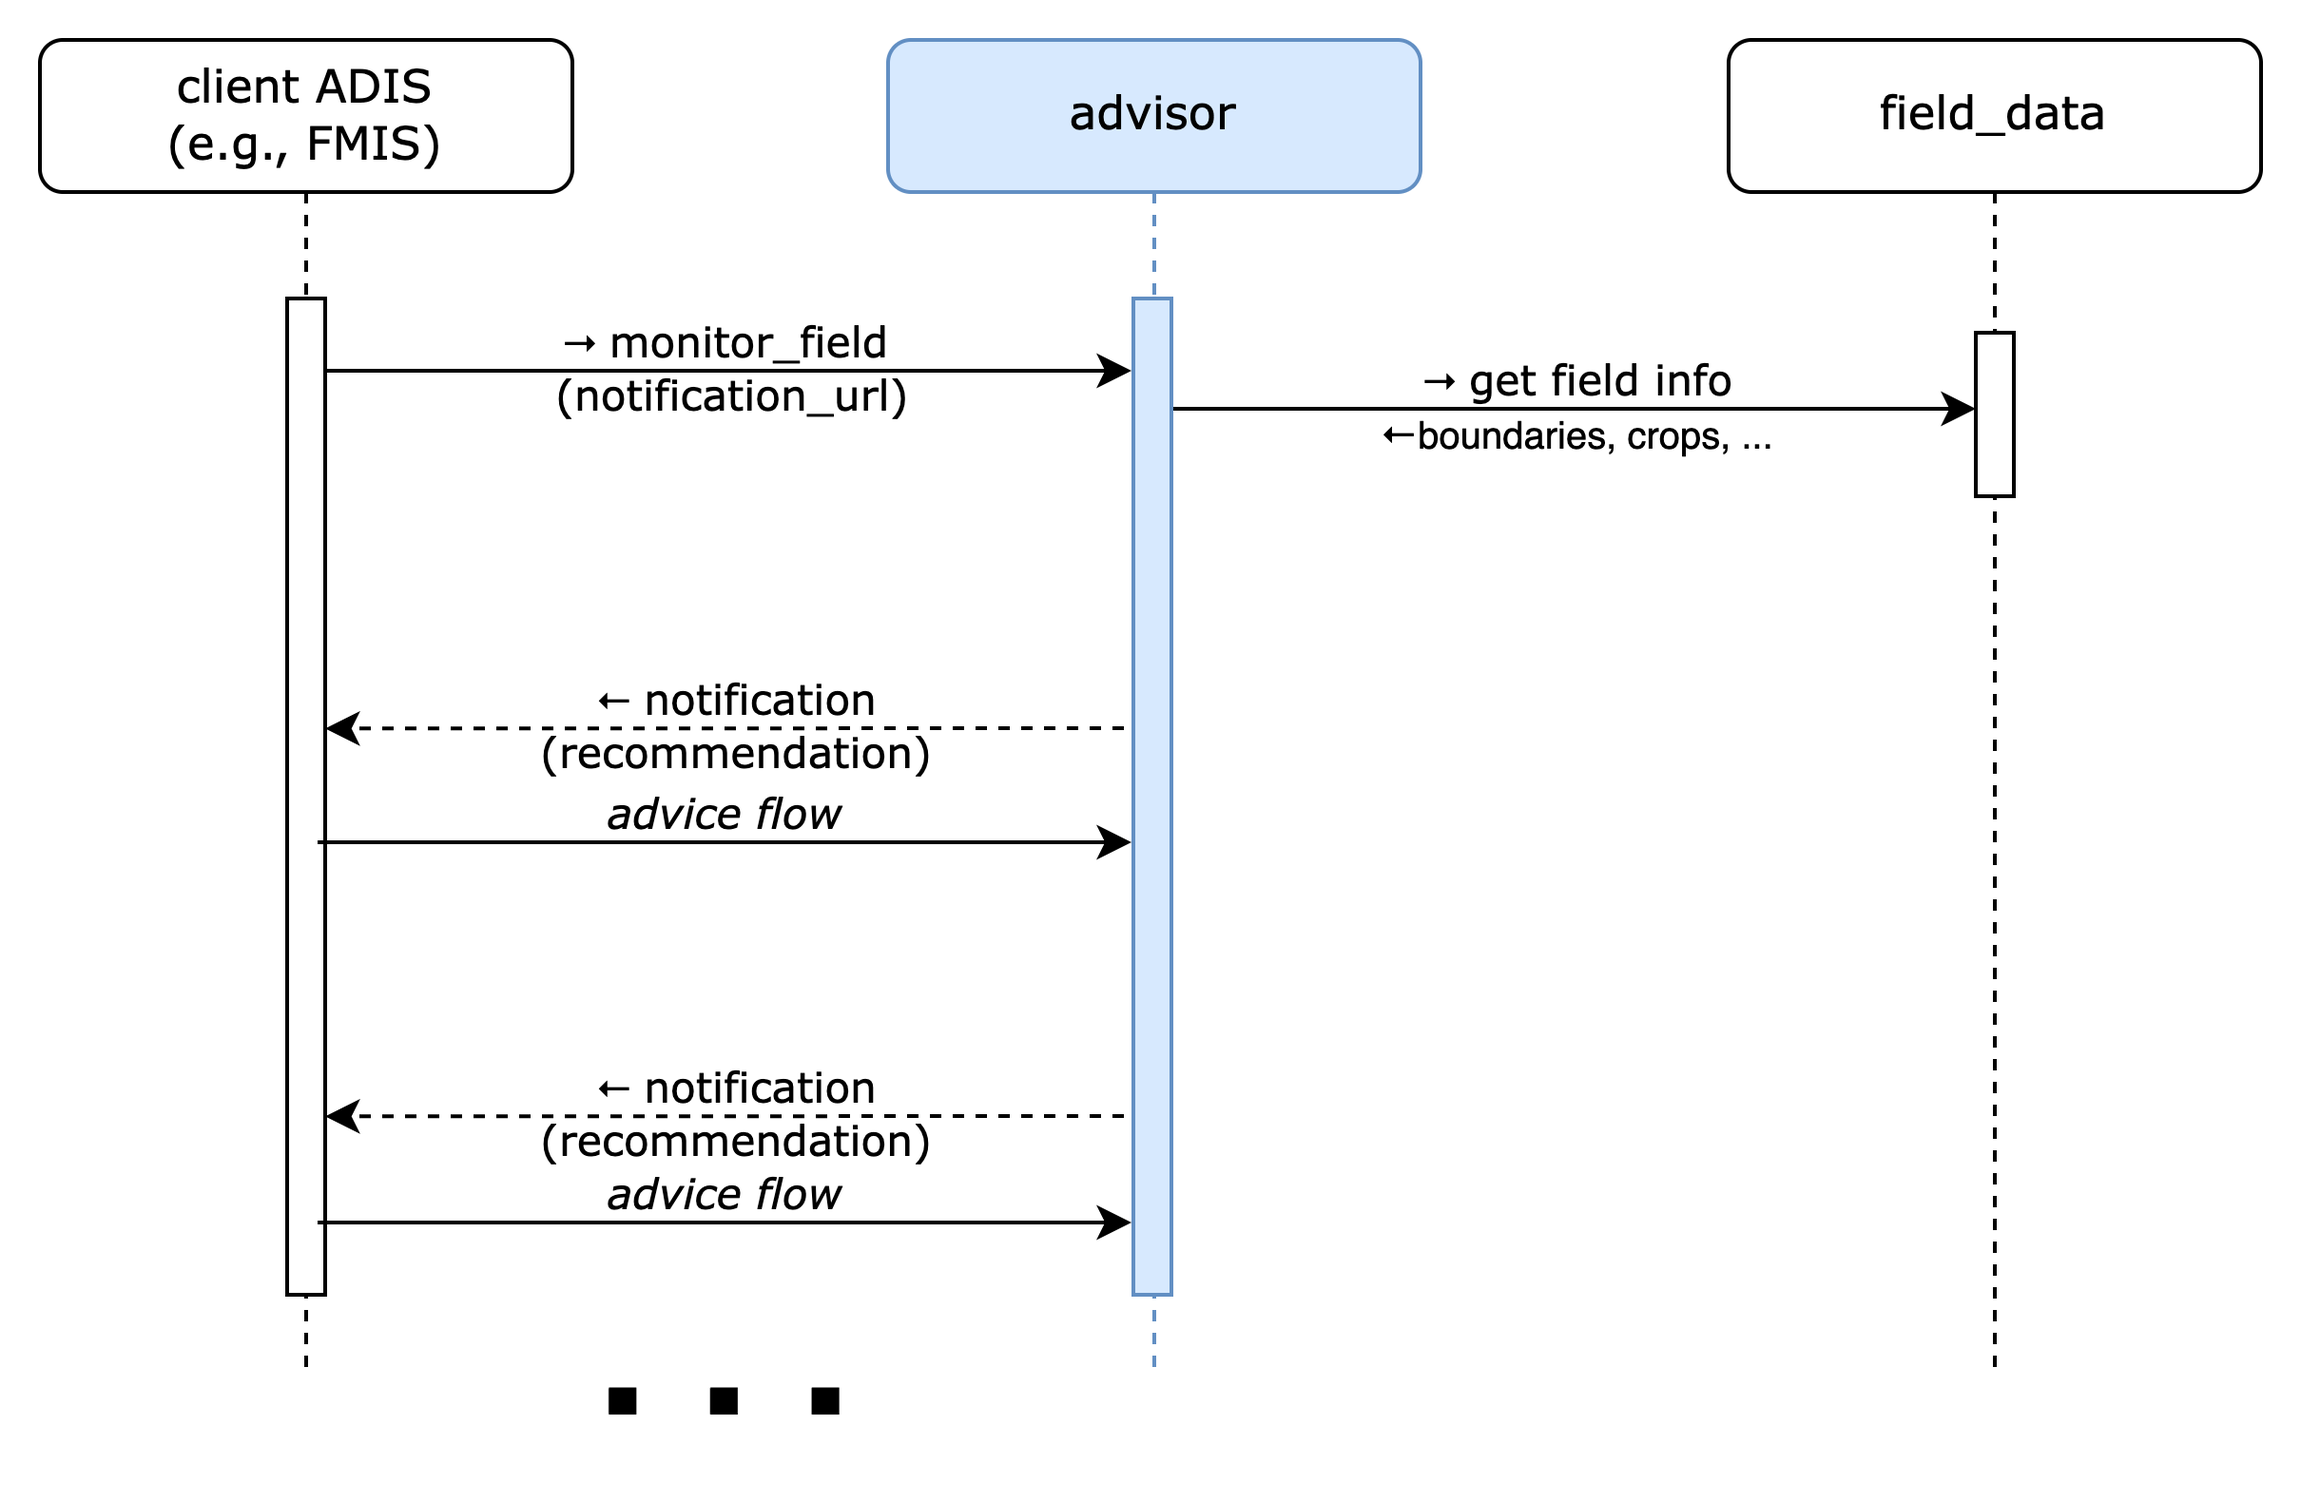
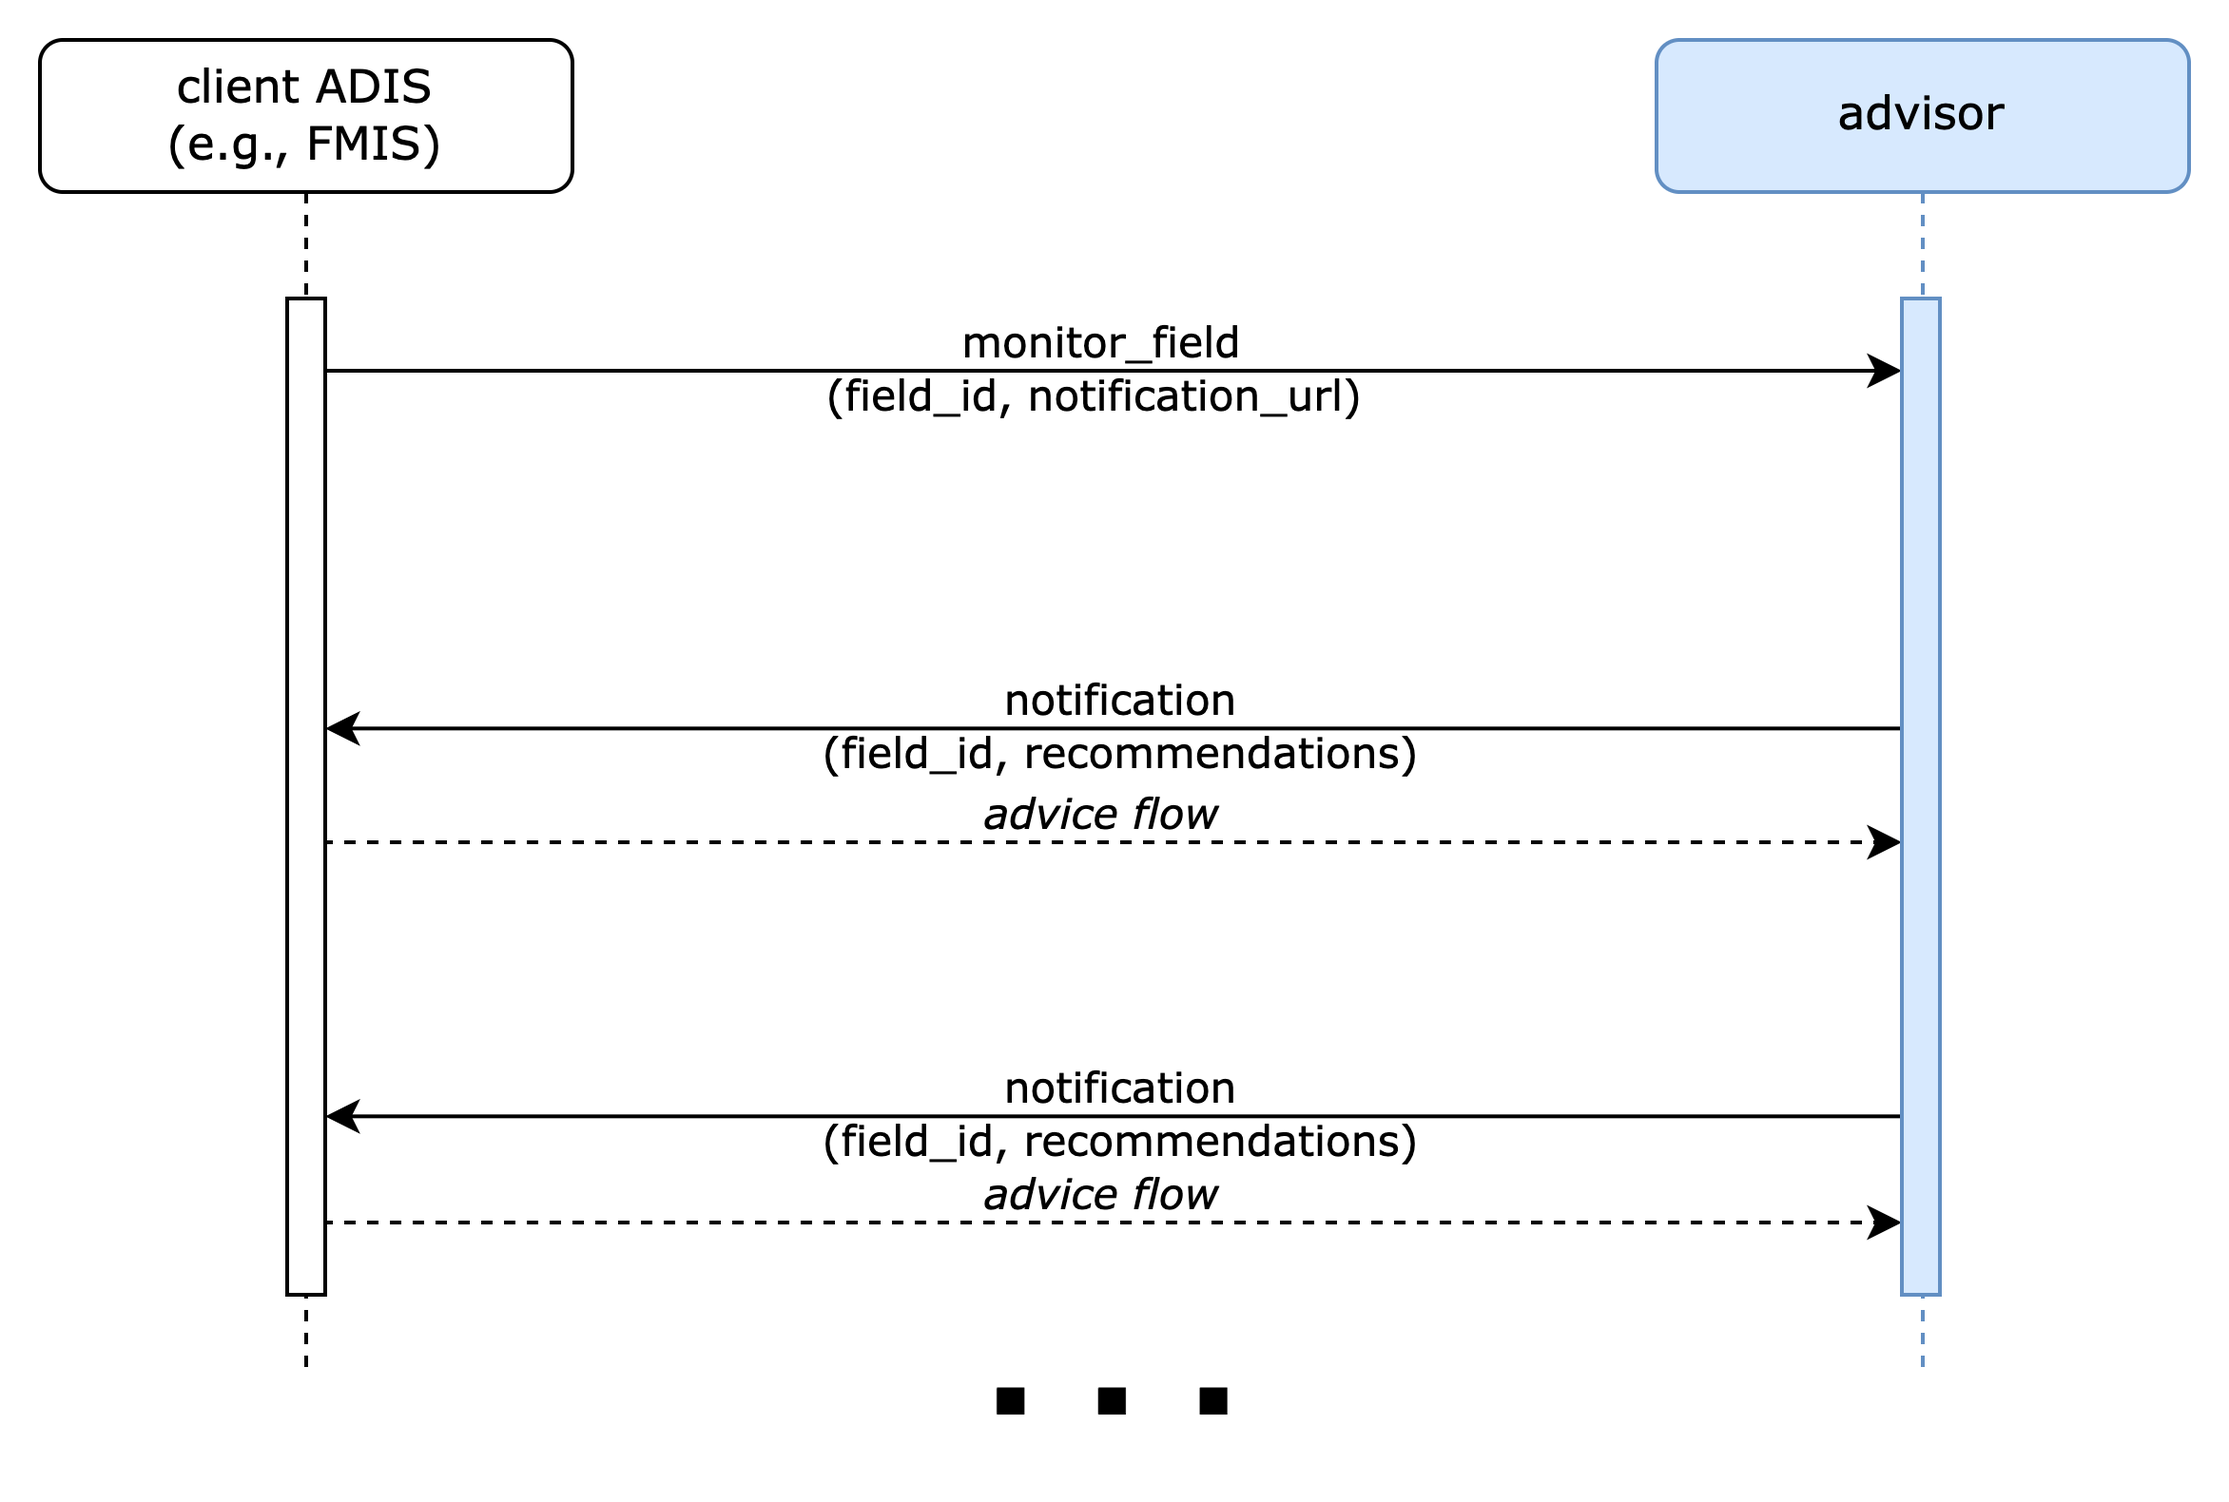
Advisor pattern

diff --git a/doc.html b/doc.html
@@ -44,13 +44,33 @@ both service consumers or service provider implementors:
     - GeoJSON specifications (<a href="https://geojson.org/">https://geojson.org/</a>)
     - GeoPackage specifications (<a href="https://www.geopackage.org/">https://www.geopackage.org/</a>)
 </pre>
-<h2>4 sowing_advisor Usage Scenarios</h2>
+<h2>4 The Advisor Lifecycle</h2>
 
-The following sections describe some aspects of the use of sowing_advisor. The examples were chosen to illustrate the basic operation of applications using sowing_advisor, not to limit what sowing_advisor may be used for.
+sowing_advisor is an "advisor-type" service template. All such services follow a common pattern that typically (but not always) involves the ATLAS Equipment Centre, and an ATLAS-enabled Digital Information System such as an FMIS, as seen below:
 
 <img src="doc/advisor_pattern.png" style="width: 420px" />
 
-<h2>5 Service Template API Overview</h2>
+The high level flow is: prepare an advice for a farming operation => submit a task with the advice and the equipment that it should be carried with => retrieve the application map from the advice just before sending it to the equipment => carry out the task with the equipment on the field => retrieve the "as applied" information from the equipment and record it on the field_data service
+
+The ADIS will usually have a mirror copy of the fields, preloaded from a field_data service.
+
+If the monitoring functionality is supported by an advisor, in a setup phase, the ADIS may activate the monitoring of a field, providing a notification url. In the operation phase, the ADIS may either poll for recommendations or receive notifications with recommendations from the advisor (see Dynamic Behaviour). The advisor service must be paired with the requested field's field_data service in order to retrieve the field's boundaries and any other information that may be relevant (crop, previous applications, ...)
+
+The ADIS may use recommendations (recommendations are specific to the type of advisor) as the basis of an advice preparation or it may manually decide to prepare an advice based on its own criteria (2).
+
+Depending on service implementations, advice preparations could take milliseconds to hours (in some cases, weeks) to complete. The ADIS will have to either poll the advisor or register a notification_url in the preparation request to determine when an advice is completed and a task may be created (see Dynamic Behaviour).
+
+As an advice is ready, the ADIS will usually let the user select an equipment out of the ones he owns (3) and then submits a task to the ATLAS Equipment Centre, with the advice and the selected equipment as parameters (4). The task is recorded by the ATLAS Equipment Centre but may take an unknown amount of time before it is actually carried out.
+
+When the ATLAS Equipment Centre determines that a task is ready to be executed (available worker and equipment), it retrieves the application map (5), just before starting the task, giving the advisor the opportunity to update potentially pre-computed maps taking latest information (weather, new applications, ...) into account. That information is sent to the tractor (6), and eventually, "as applied" information is sent back (7) to the ATLAS Equipment Centre which then records the application on the appropriate field_data service (8). Note that results may be partial, resulting in multiple applications for a single task.
+
+When the task is finished, it is marked as completed, and a notification is sent back to the ADIS (9), but only if it provided a notification URL. Note that when a notification URL is provided with the task, notifications will also be changed for any status change.
+
+<h2>5 sowing_advisor Usage Scenarios</h2>
+
+A common use case for sowing is to monitor a field to determine the optimum timing for sowing based, for instance, on the crop, current and forecasted meteorological conditions.
+
+<h2>6 Service Template API Overview</h2>
 
 This section provides a very high-level summary of the sowing_advisor API:
 <pre>
@@ -81,11 +101,11 @@ Only the most meaningful parameters are discussed in this document. Please refer
 
 sowing_advisor services are not required to handle intense traffic from a single client, such as the one that may result from being directly invoked on user interface interactions in an FMIS, for instance. Implementors MAY generate a 429 TOO MANY REQUESTS error response if the rate of calls exceed some pre-defined quota.
 
-<h2>5.1 Sowing Monitoring Endpoints</h2>
+<h2>6.1 Sowing Monitoring Endpoints</h2>
 
 These functions relate to registering, and unregistering fields for which alerts are desired. sowing_advisor services may provide the means to actively monitor fields and generate alerts when sowing is recommended.
 
-<h2>5.1.1 Monitor Field</h2>
+<h2>6.1.1 Monitor Field</h2>
 
 This endpoint registers a field to be monitored for sowing a particular with the sowing_advisor.
 <pre>
@@ -99,7 +119,7 @@ This endpoint registers a field to be monitored for sowing a particular with the
 </pre>
 See Sowing Monitoring for details on the monitoring notification process.
 
-<h2>5.1.2 Get field monitoring info</h2>
+<h2>6.1.2 Get field monitoring info</h2>
 
 This endpoint returns the monitoring info for a field.
 <pre>
@@ -115,7 +135,7 @@ The status may be one of IN_PROGRESS, CONFIGURATION_REQUIRED, READY, FAILED. In 
 
 If the status is READY then there may be a recommendation to perform a sowing operation on the field.
 
-<h2>5.1.3 Unmonitor field</h2>
+<h2>6.1.3 Unmonitor field</h2>
 
 This endpoint cancels monitoring for a field.
 <pre>
@@ -127,11 +147,11 @@ This endpoint cancels monitoring for a field.
 |     Outputs |                              |
 +-------------+------------------------------+
 </pre>
-<h2>5.2 Advice Endpoints</h2>
+<h2>6.2 Advice Endpoints</h2>
 
 These endpoints relate to the creation of sowing advices. An advice may be requested to plan and optimize sowing for a particular crop.
 
-<h2>5.2.1 Prepare Advice</h2>
+<h2>6.2.1 Prepare Advice</h2>
 
 This endpoint is used to requests an advice to be prepared for the field's crop and the seeds that are at disposition.
 
@@ -149,7 +169,7 @@ sowing_advisor services may retrieve any relevant information for preparing advi
 
 Advice preparation may be a lengthy process. Clients may either poll or request to be notified to determine that the advice is READY (see Advice Preparation).
 
-<h2>5.2.2 Get Advice Info</h2>
+<h2>6.2.2 Get Advice Info</h2>
 
 This function returns status information about an advice.
 <pre>
@@ -163,7 +183,7 @@ This function returns status information about an advice.
 </pre>
 In addition to the information submitted when preparing the advice, the advice info also contains a status about the advice preparation which is one of IN_PROGRESS, CONFIGURATION_REQUIRED, READY, FAILED. In this context, the IN_PROGRESS status indicates that some background processing is still being carried out and that the advice is not yet. The CONFIGURATION_REQUIRED status indicates that the end-user is required to perform some manual configuration on the service’s proprietary UI in order to enable the completion of the requested advice.
 
-<h2>5.2.3 Cancel Advice</h2>
+<h2>6.2.3 Cancel Advice</h2>
 <pre>
 +--------------------------------------------+
 | cancel_advice                              |
@@ -175,7 +195,7 @@ In addition to the information submitted when preparing the advice, the advice i
 </pre>
 Invoking this endpoint causes the advice status to become FAILED. If an advice that is not yet in READY state is cancelled and if a notification URL was provided in the prepare_advice request, a notification MUST be dispatched.
 
-<h2>5.2.4 Get Application Info</h2>
+<h2>6.2.4 Get Application Info</h2>
 
 This endpoint may only be performed on advices whose status is READY. It returns a download URL to the application map and the total estimated amount of seeds needed carry out the application.
 <pre>
@@ -193,11 +213,11 @@ The status may be one of IN_PROGRESS, CONFIGURATION_REQUIRED, READY, FAILED. In 
 
 For maximum accuracy, the application map is requested in a "just-in-time" fashion by the ATLAS Equipment Centre (or any other consumer) to give an opportunity to advisors to make adjustments to their pre-computed preparation. However, since this information is usually requested just as farmers are about to go out on the field to perform a task, it is important that it is computed in a short time (maximum, few seconds). Any potentially time-consuming processing must be pre-computed and cached internally during the registration and/or preparation stages.
 
-<h2>6 Data Formats</h2>
+<h2>7 Data Formats</h2>
 
 This section focuses on the description of binary (file) data formats. Please refer to the sowing_advisor OpenAPI specifications for details on all other payload and parameter descriptions.
 
-<h2>6.1	Sowing Application File Format</h2>
+<h2>7.1	Sowing Application File Format</h2>
 
 Seed application data MUST be in GeoPackage (<a href="https://www.geopackage.org">https://www.geopackage.org</a>) format version 1.2 or newer.
 <pre>
@@ -340,7 +360,7 @@ Sowing "application_info.info" is a JSON object serialized as a string, such as:
 </pre>
 The "crop_id" attribute is defined as per field_data Crop Reference Data. The "weight_of_1000" attribute is the weight in kg for 1000 seeds; it can be used to map units between kg and count. The "amount" attribute is the total amount of seed (in the specified units) sowed in the entire field; it must match the sum of all values in the "seed" table.
 
-<h2>7 Access and Authentication</h2>
+<h2>8 Access and Authentication</h2>
 
 Farmers MUST have an account setup on an advisor service in order to authenticate and access API endpoints. The service implementor is responsible for the creation of accounts; it is not covered in the service template specifications.
 
@@ -348,27 +368,23 @@ Unless specifically documented in the OpenAPI specifications, all API calls must
 
 Some of the information held by advisor services may be considered sensitive from a GDPR perspective. The service's authorization server SHOULD request the client's end-user consent at service pairing time in order to deliver an access token.
 
-<h2>8 Dynamic Behaviour</h2>
+<h2>9 Dynamic Behaviour</h2>
 
 The purpose of the diagrams in this section is to illustrate communication patterns, more complex than plain request/response API calls, that involve several interactions and/or asynchronous behaviour. Even though a sequence diagram representation is used, the diagrams are by no means to be interpreted as UML Sequence Diagrams. Specifically, in the spirit of focusing on functional behaviour and readability, error handling is deliberately not covered in the diagrams.
 
-<h2>8.1	Sowing Lifecycle</h2>
+The dynamic behaviour is similar for most advisor-type service templates (see The Advisor Lifecycle).
 
-The "Sowing lifecycle" in ATLAS typically operates in a larger context involving three services and an end-user application such as an FMIS which, in collaboration, provide an end-to-end solution from algorithmically computed advices to actual operations performed on a field.
-
-<img src="doc/advisor_lifecycle.png" style="width: 420px" />
-
-<h2>8.2 Sowing Monitoring</h2>
+<h2>9.1 Sowing Monitoring</h2>
 
 There are two methods for determining whether a monitoring request has completed (successfully or unsuccessfully): by polling the monitoring_info endpoint or by notification.
 
-<h2>8.2.1 Polling</h2>
+<h2>9.1.1 Polling</h2>
 
 After requesting a field to be monitored, the client polls monitoring_info endpoint at regular intervals until the returned status is CONFIGURATION_REQUIRED, READY or FAILED.
 
 A CONFIGURATION_REQUIRED status indicates that a user action is required on the proprietary user interface of the advisor. By convention, in case of CONFIGURATION_REQUIRED status, the advisor MAY return a browser URL to the location where a user can provide additional parameters (as required for a specific service implementation). It is the user interface of the client application originating the request to display an appropriate message to the end-user with a clickable link to the provided URL.
 
-<h2>8.2.2 Notification</h2>
+<h2>9.1.2 Notification</h2>
 
 If a notification URL was supplied on the monitor_field endpoint, it will be invoked by the advisor when the monitoring status changes.
 
@@ -376,11 +392,11 @@ Advanced advisors have the ability to monitor conditions on fields in the backgr
 
 Advisors MUST invoke the notification URL supplied by the client with an HTTPS POST command. The payload will be identical to the one that would be returned by a request to the monitoring_info endpoint.
 
-<h2>8.3 Advice Preparation</h2>
+<h2>9.2 Advice Preparation</h2>
 
 There are two methods for determining whether an advice preparation has completed (successfully or unsuccessfully): by polling the advice_info endpoint or by notification.
 
-<h2>8.3.1 Polling</h2>
+<h2>9.2.1 Polling</h2>
 
 After requesting an advice preparation, the client polls the advice_info endpoint at regular intervals until the returned status is READY or FAILED.
 
@@ -388,7 +404,7 @@ The status may be CONFIGURATION_REQUIRED which indicates that a user action is r
 
 <img src="doc/advice_polling.png" style="width: 420px" />
 
-<h2>8.3.2 Notification</h2>
+<h2>9.2.2 Notification</h2>
 
 If a notification URL was supplied on the prepare_advice endpoint, it will be invoked by the advisor when the preparation status changes.
 
@@ -396,7 +412,7 @@ If a notification URL was supplied on the prepare_advice endpoint, it will be in
 
 Advisors MUST invoke the notification URL supplied by the client with an HTTPS POST command. The payload will be identical to the one that would be returned by the advice_info request.
 
-<h2>8.4 General Comments on Notifications</h2>
+<h2>9.3 General Comments on Notifications</h2>
 
 Services must provide best efforts to deliver notifications. A notification is considered successful if the target returns an http result code 2XX.
 
